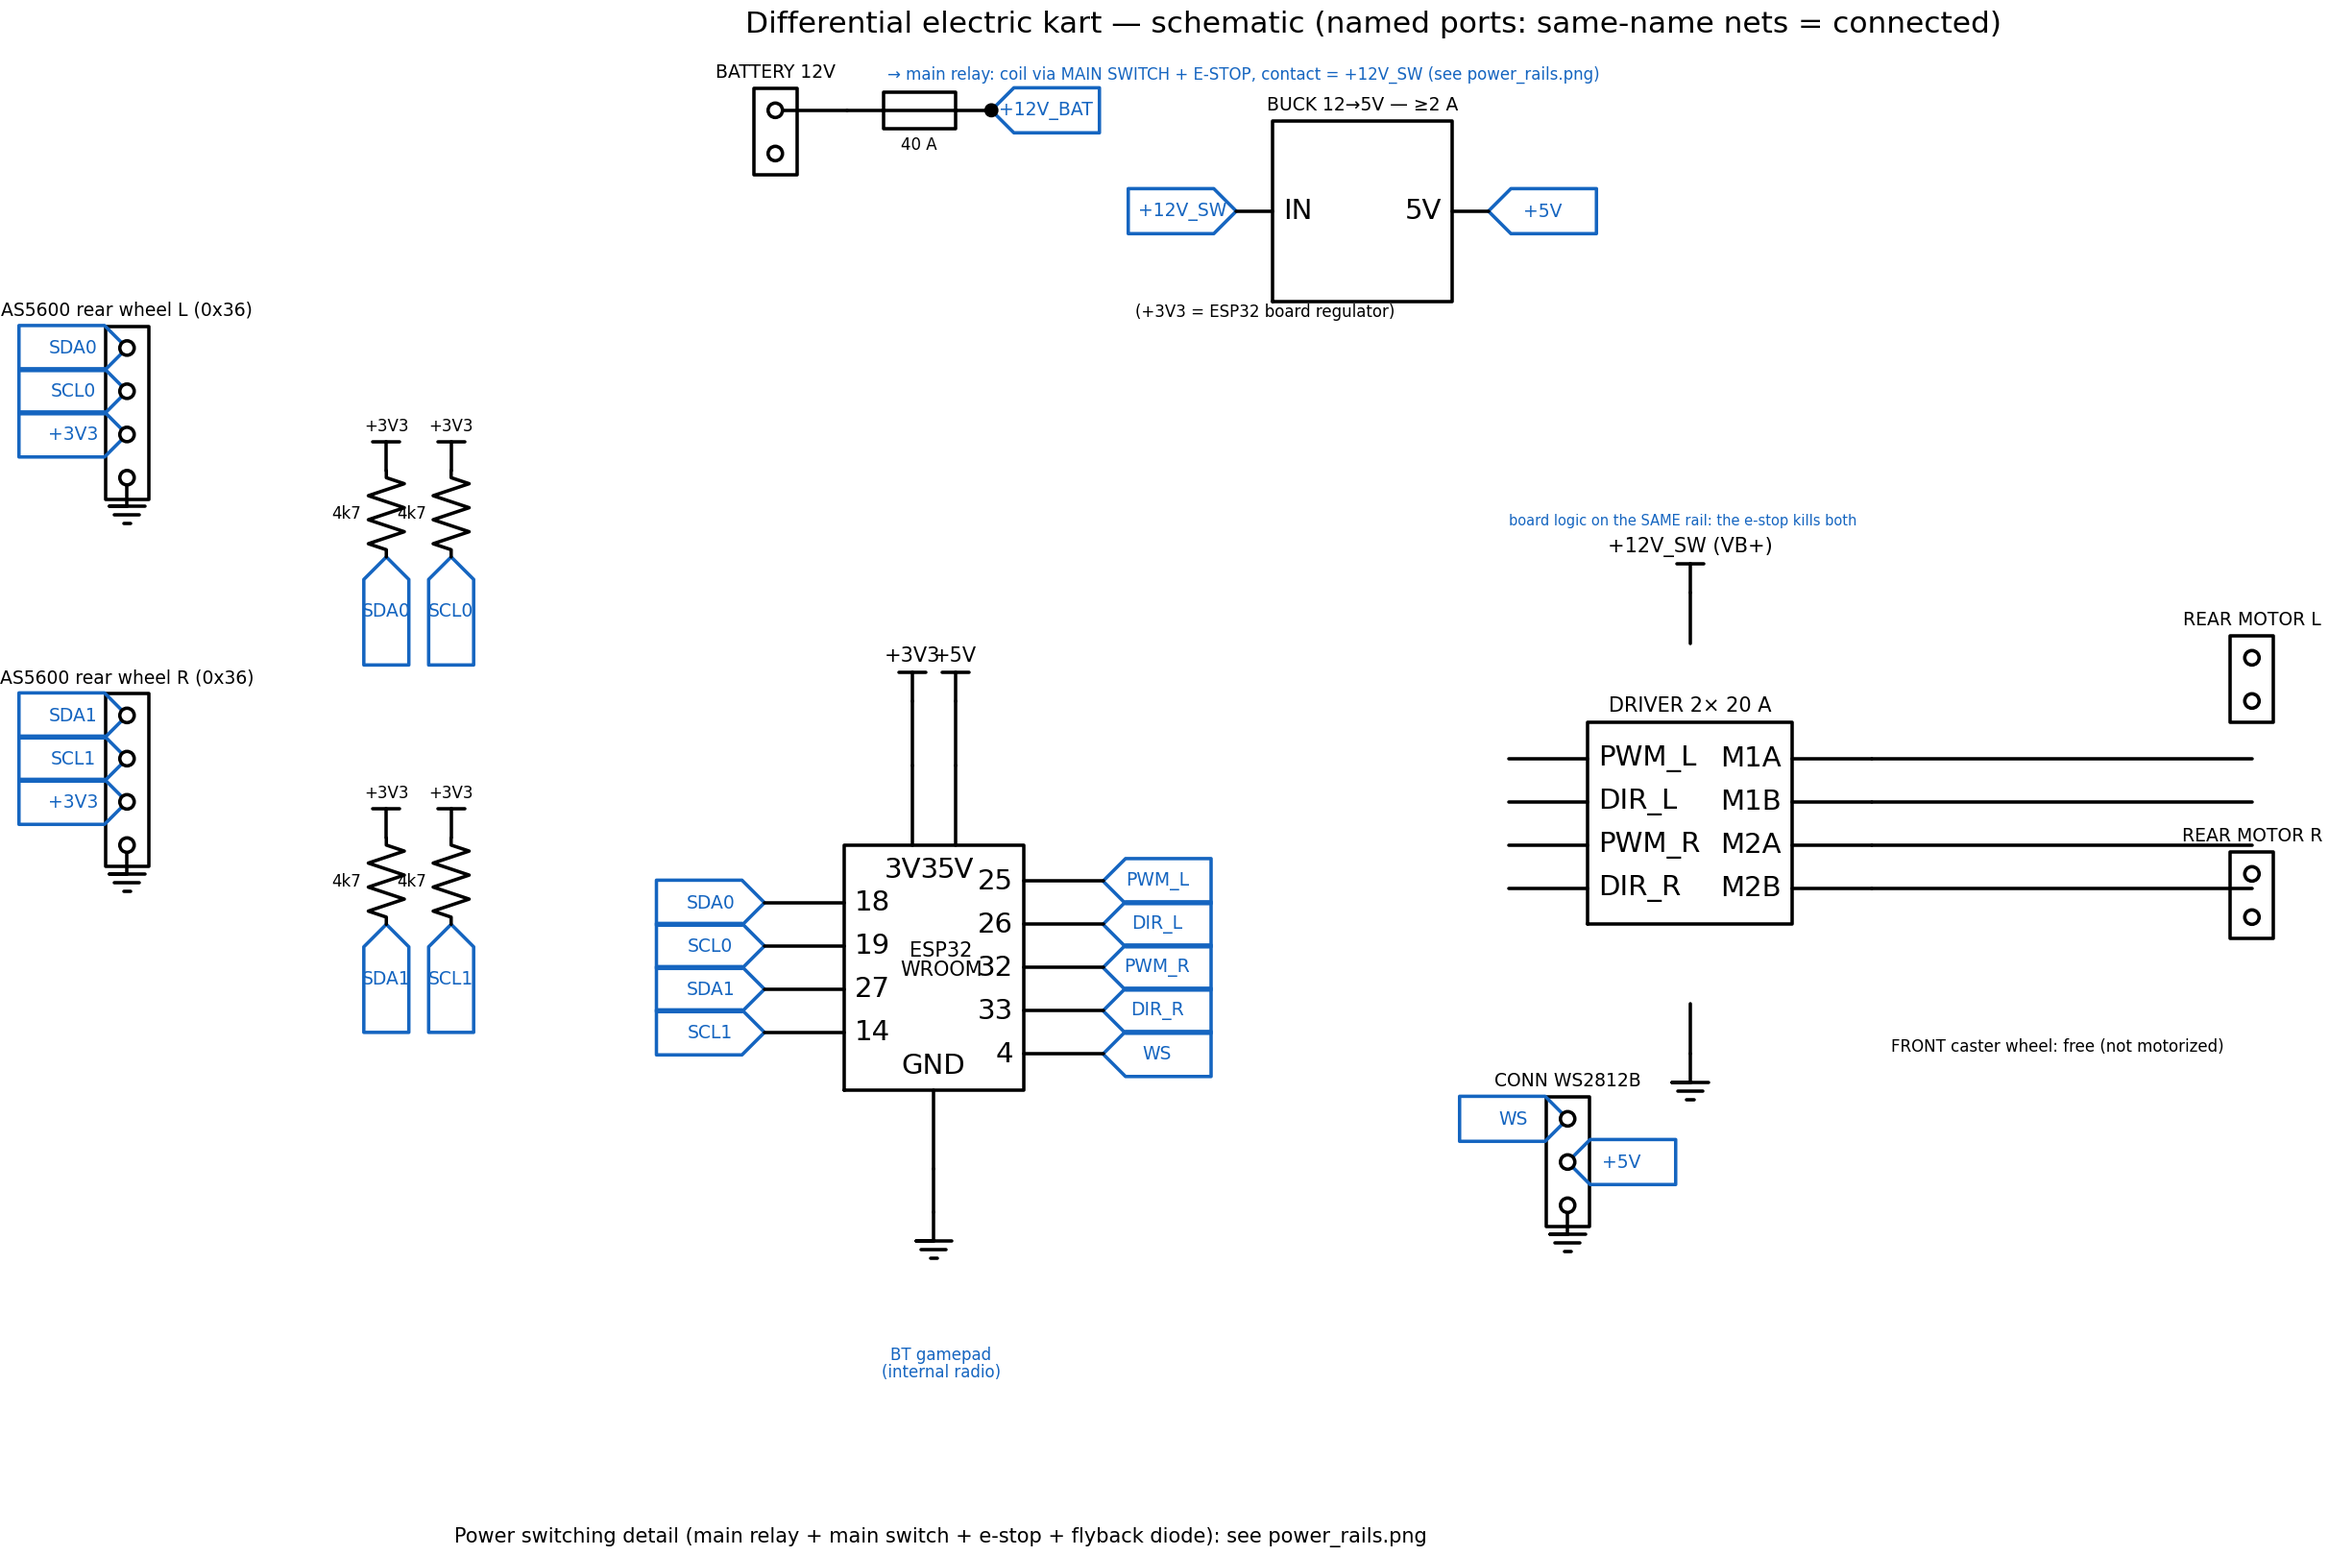
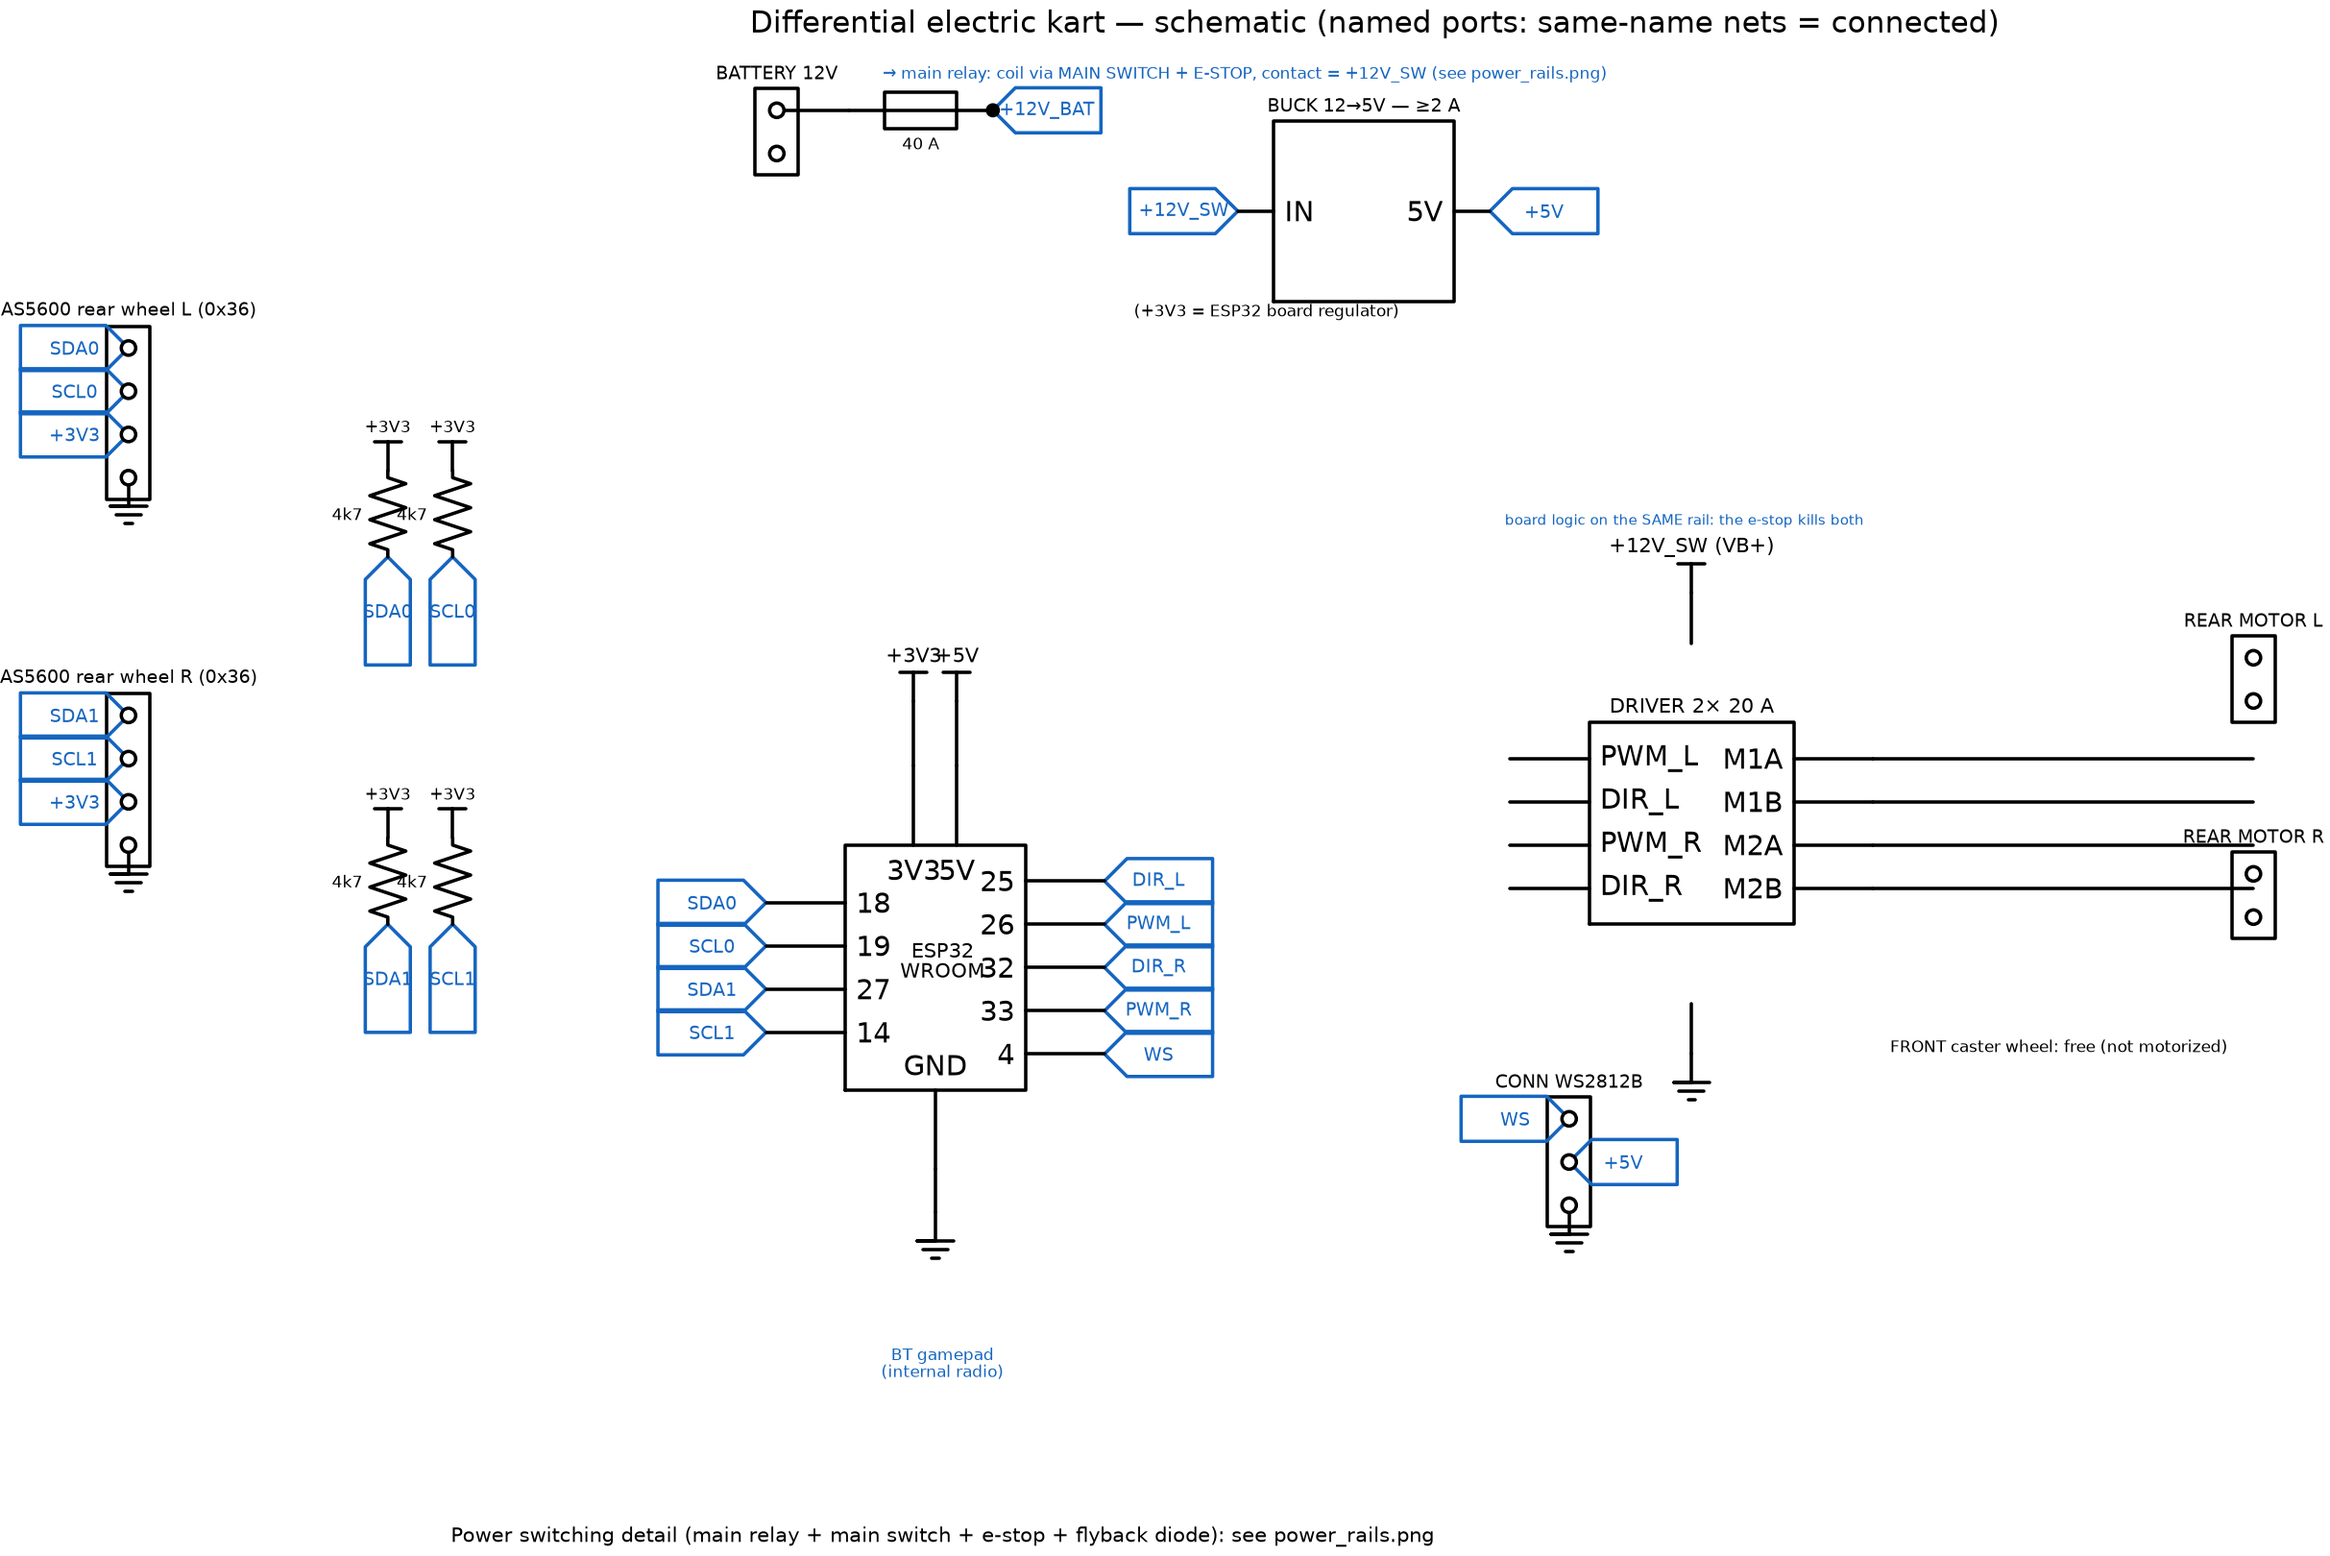
PWM and DIR trade places on both motor channels
Left wheel: PWM on GPIO26, DIR on GPIO25 (was 25/26). Right wheel: PWM on
GPIO33, DIR on GPIO32 (was 32/33). The swap stays inside each channel, so the
left/right assignment of the driver does not change.

Only the constants in pinout.hpp move: the LEDC channels and the DIR outputs
are all configured from pins::, and nothing else in the firmware names a GPIO
number for the motors. The four places that show the pinout follow: the
README table and its wiring diagram, the page's pinout tab, and the full
schematic (regenerated). The schematic ties the ESP32 to the driver by net
flags, so the DIR_L/PWM_L labels just trade pins and no wire crosses.

diff --git a/firmware/main/assets/index.html b/firmware/main/assets/index.html
@@ -381,8 +381,8 @@
   <div class="chart-title">📌 ESP32 pinout</div>
   <table class="pins">
    <tr><th>GPIO</th><th>Function</th><th>Direction</th></tr>
-   <tr><td>25 / 26</td><td>PWM / DIR rear-left motor</td><td>output</td></tr>
-   <tr><td>32 / 33</td><td>PWM / DIR rear-right motor</td><td>output</td></tr>
+   <tr><td>26 / 25</td><td>PWM / DIR rear-left motor</td><td>output</td></tr>
+   <tr><td>33 / 32</td><td>PWM / DIR rear-right motor</td><td>output</td></tr>
    <tr><td>18 / 19</td><td>I²C bus 0 (SDA/SCL) — AS5600 left wheel (0x36)</td><td>I/O</td></tr>
    <tr><td>27 / 14</td><td>I²C bus 1 (SDA/SCL) — AS5600 right wheel (0x36)</td><td>I/O</td></tr>
    <tr><td>4</td><td>WS2812B LED strip (data)</td><td>output</td></tr>

diff --git a/firmware/main/pinout.hpp b/firmware/main/pinout.hpp
@@ -16,10 +16,10 @@ namespace pins
 {
 
 // Motor outputs (dual-channel driver: PWM + DIR per channel) — one motor per REAR wheel.
-constexpr gpio_num_t PWM_L = GPIO_NUM_25;   // rear LEFT wheel
-constexpr gpio_num_t DIR_L = GPIO_NUM_26;
-constexpr gpio_num_t PWM_R = GPIO_NUM_32;   // rear RIGHT wheel
-constexpr gpio_num_t DIR_R = GPIO_NUM_33;
+constexpr gpio_num_t PWM_L = GPIO_NUM_26;   // rear LEFT wheel
+constexpr gpio_num_t DIR_L = GPIO_NUM_25;
+constexpr gpio_num_t PWM_R = GPIO_NUM_33;   // rear RIGHT wheel
+constexpr gpio_num_t DIR_R = GPIO_NUM_32;
 
 // ───────────────────────── I2C buses (two independent buses) ─────────────────────────
 // One AS5600 (0x36) per bus: the address is fixed on that chip, so two sensors need two

diff --git a/doc/schematics/full_schematic.py b/doc/schematics/full_schematic.py
@@ -40,7 +40,7 @@ with schemdraw.Drawing(file='doc/schematics/full_schematic.png', dpi=150, show=F
     # ───────────────────────── ESP32 (central integrated circuit) ─────────────────────────
     # 2 I2C buses: bus 0 (SDA0/SCL0 = AS5600 L) · bus 1 (SDA1/SCL1 = AS5600 R).
     LEFT = [('18', 'SDA0'), ('19', 'SCL0'), ('27', 'SDA1'), ('14', 'SCL1')]
-    RIGHT = [('25', 'PWM_L'), ('26', 'DIR_L'), ('32', 'PWM_R'), ('33', 'DIR_R'),
+    RIGHT = [('25', 'DIR_L'), ('26', 'PWM_L'), ('32', 'DIR_R'), ('33', 'PWM_R'),
              ('4', 'WS')]
     pins = []
     for i, (g, _) in enumerate(LEFT):

diff --git a/README.md b/README.md
@@ -496,8 +496,8 @@ flowchart LR
 
 | GPIO | Function | Direction | Note |
 |---|---|---|---|
-| 25 / 26 | **PWM / DIR REAR left motor** | output | LEDC, **duty ≤ 50%** |
-| 32 / 33 | **PWM / DIR REAR right motor** | output | same |
+| 26 / 25 | **PWM / DIR REAR left motor** | output | LEDC, **duty ≤ 50%** |
+| 33 / 32 | **PWM / DIR REAR right motor** | output | same |
 | 18 / 19 | **I²C bus 0 SDA / SCL** | I/O | **AS5600 wheel L (0x36)** alone on the bus, 3.3 V, 4.7 kΩ pull-ups |
 | 27 / 14 | **I²C bus 1 SDA / SCL** | I/O | **AS5600 wheel R (0x36)**, 3.3 V, 4.7 kΩ pull-ups |
 | 4 | **WS2812B strip** (data) | output | ~10 LEDs |
@@ -536,7 +536,7 @@ flowchart LR
     EG["🧭 AS5600 L CONN (bus 0)<br/>SDA / SCL / 3V3 / GND"] -->|"I²C GPIO18/19 (3.3 V)"| ESP
     ED["🧭 AS5600 R CONN (bus 1)<br/>SDA / SCL / 3V3 / GND"] -->|"I²C GPIO27/14 (3.3 V)"| ESP
 
-    ESP -->|"PWM/DIR L+R<br/>GPIO25/26/32/33"| DRV["🛞 MOTOR DRIVER<br/>2 channels 20 A"]
+    ESP -->|"PWM/DIR L+R<br/>GPIO26/25/33/32"| DRV["🛞 MOTOR DRIVER<br/>2 channels 20 A"]
     RAIL --> DRV
     DRV -->|"M1A / M1B"| MG["⚙ REAR L MOTOR CONN"]
     DRV -->|"M2A / M2B"| MD["⚙ REAR R MOTOR CONN"]
